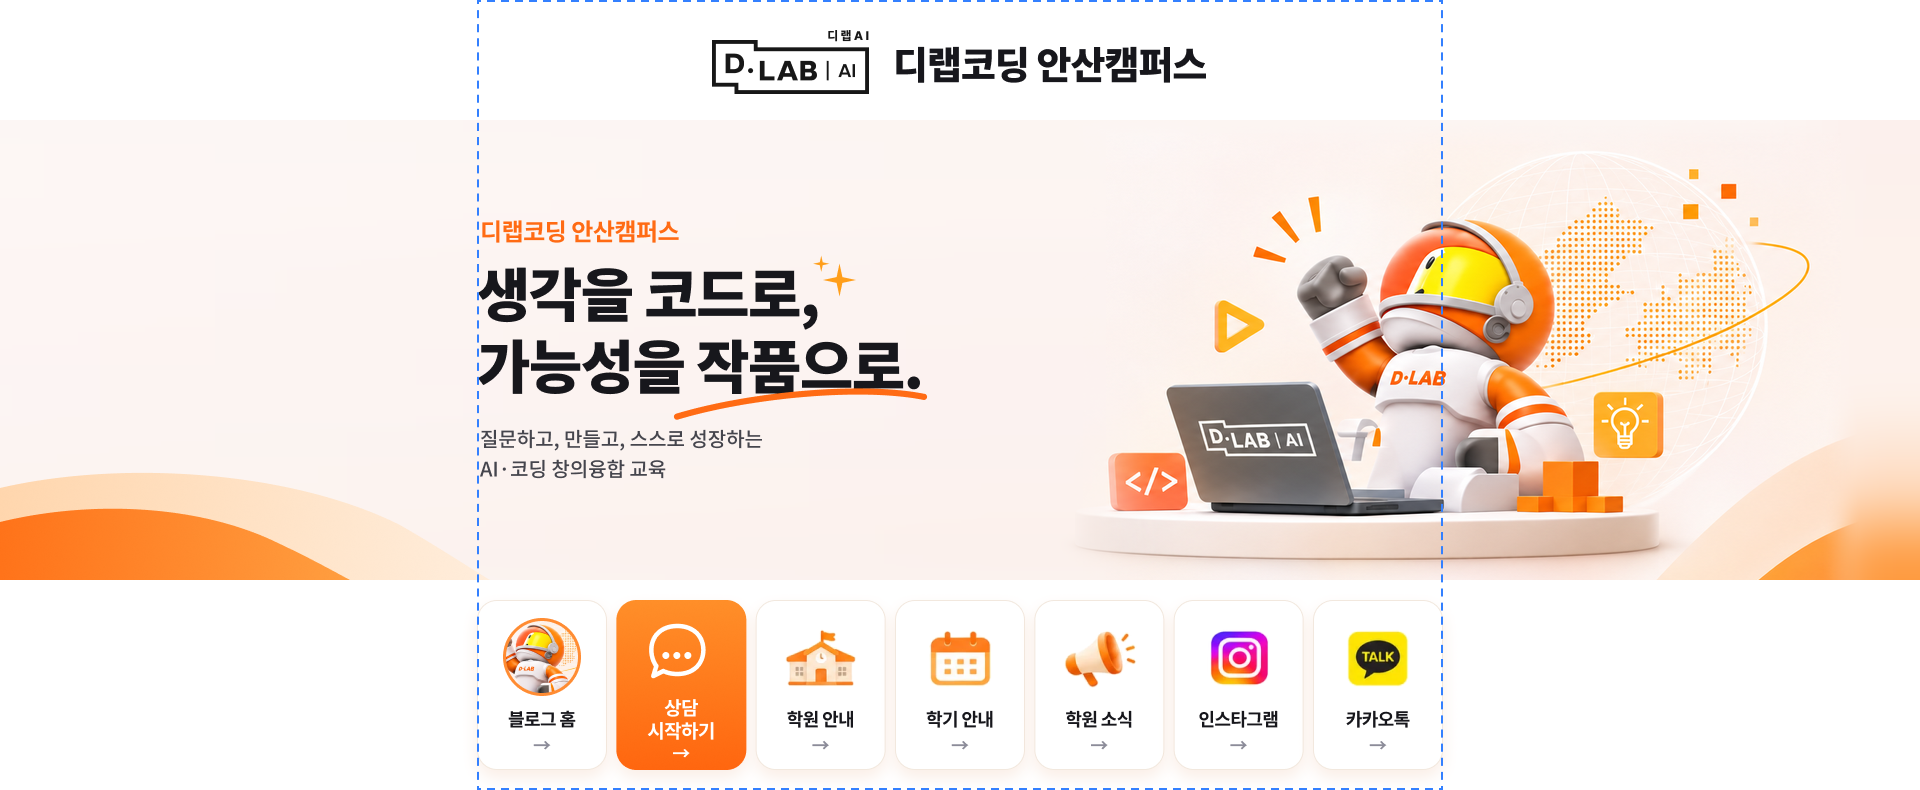
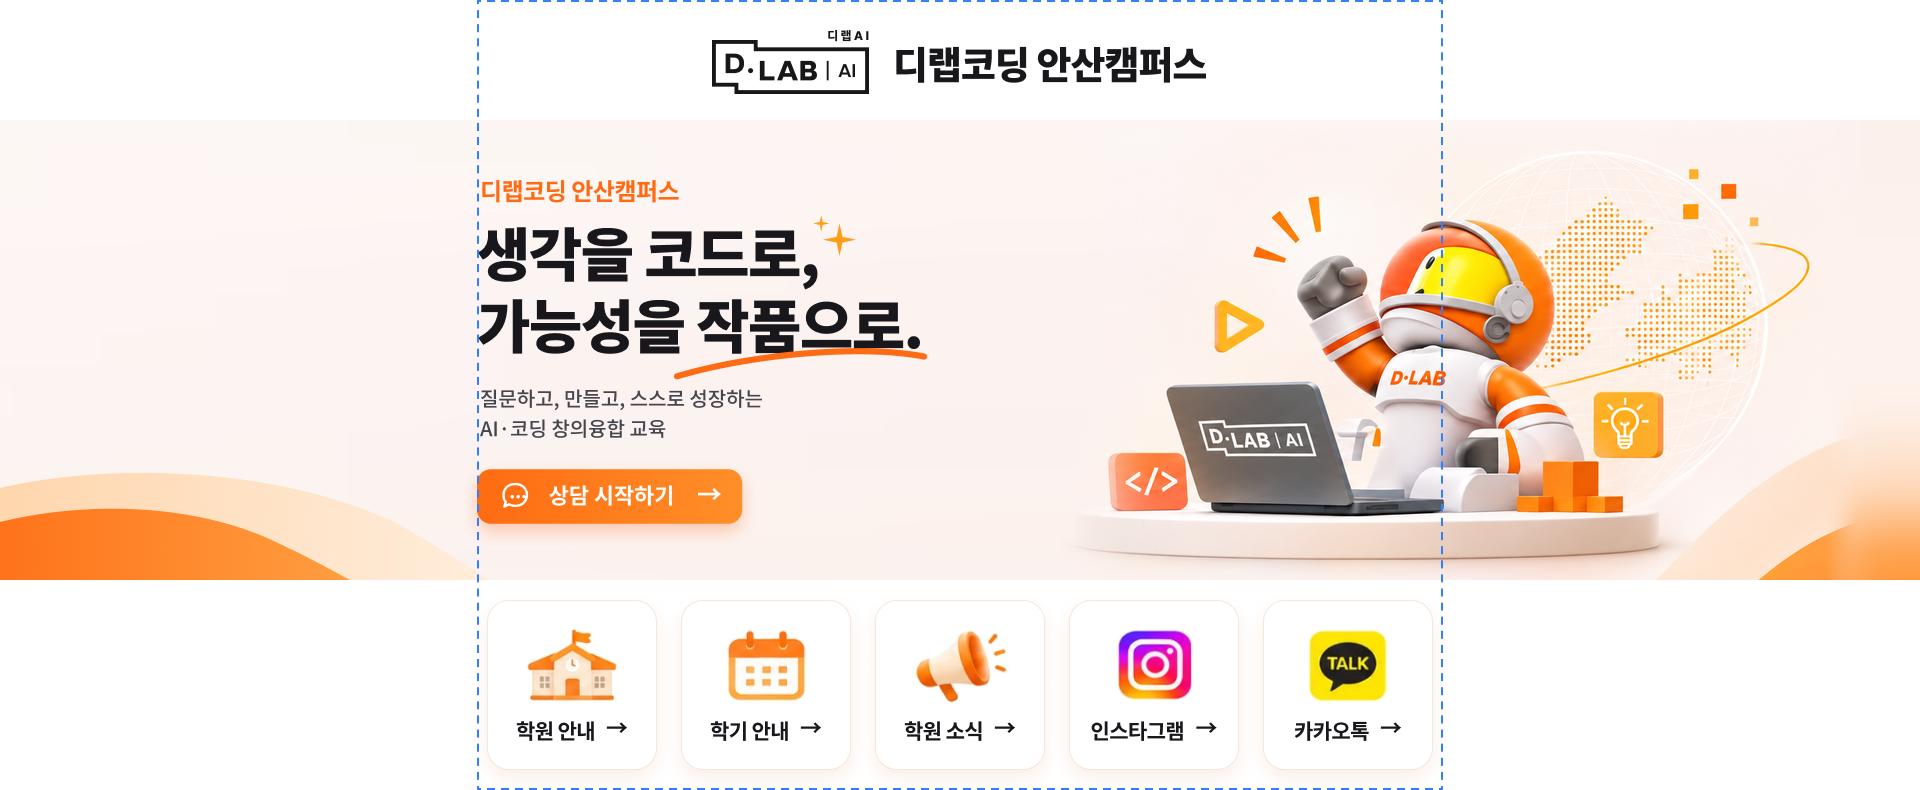
위젯을 이전 5개(170×170)로 되돌림

Changed region(s): [[0.25, 0.2127, 0.5, 0.6987], [0.25, 0.7595, 0.75, 0.9722]]

diff --git a/index.html b/index.html
@@ -33,7 +33,7 @@
   <h2>적용 미리보기</h2>
   <div class="banner"><img src="img/preview.png" alt="미리보기"></div>
 
-  <h2>위젯 7개 (위젯직접등록용 코드, 130×170)</h2>
+  <h2>메뉴 위젯 5개 (위젯직접등록용 코드, 170×170)</h2>
   <p class="lead">각 코드의 <code>연결할주소</code> 부분을 카테고리·채널 주소로 바꿔서 네이버 위젯직접등록에 붙여 넣으세요.</p>
   <div class="grid" id="widgets"></div>
 </main>
@@ -41,17 +41,15 @@
   const base = location.href.replace(/index\.html$/, '').replace(/[?#].*$/, '');
   document.getElementById('banner-url').textContent = base + 'img/skin-bg.png';
   const W = [
-    ['1-home', '블로그 홈 (캐릭터)', 'https://blog.naver.com/dlabansan', '_top'],
-    ['2-consult', '상담 시작하기', '상담주소', '_blank'],
-    ['3-academy', '학원 안내', '연결할주소', '_top'],
-    ['4-semester', '학기 안내', '연결할주소', '_top'],
-    ['5-news', '학원 소식', '연결할주소', '_top'],
-    ['6-instagram', '인스타그램', '인스타그램주소', '_blank'],
-    ['7-kakao', '카카오톡', '카카오톡채널주소', '_blank'],
+    ['1-academy', '학원 안내', '연결할주소', '_top'],
+    ['2-semester', '학기 안내', '연결할주소', '_top'],
+    ['3-news', '학원 소식', '연결할주소', '_top'],
+    ['4-instagram', '인스타그램', '인스타그램주소', '_blank'],
+    ['5-kakao', '카카오톡', '카카오톡채널주소', '_blank'],
   ];
   document.getElementById('widgets').innerHTML = W.map(([k, name, href, tgt]) => {
-    const code = `<a href="${href}" target="${tgt}"><img src="${base}img/widget-${k}-2x.png" width="130" height="170" border="0" alt="${name}"></a>`;
-    return `<div class="card"><img src="img/widget-${k}-2x.png" alt="${name}" style="width:130px;height:170px"><b>${name}</b>
+    const code = `<a href="${href}" target="${tgt}"><img src="${base}img/widget-${k}-2x.png" width="170" height="170" border="0" alt="${name}"></a>`;
+    return `<div class="card"><img src="img/widget-${k}-2x.png" alt="${name}" ><b>${name}</b>
       <input readonly value='${code.replace(/'/g, '&#39;')}'><button onclick="navigator.clipboard.writeText(this.previousElementSibling.value);this.textContent='복사했어요'">코드 복사</button></div>`;
   }).join('');
 </script>
